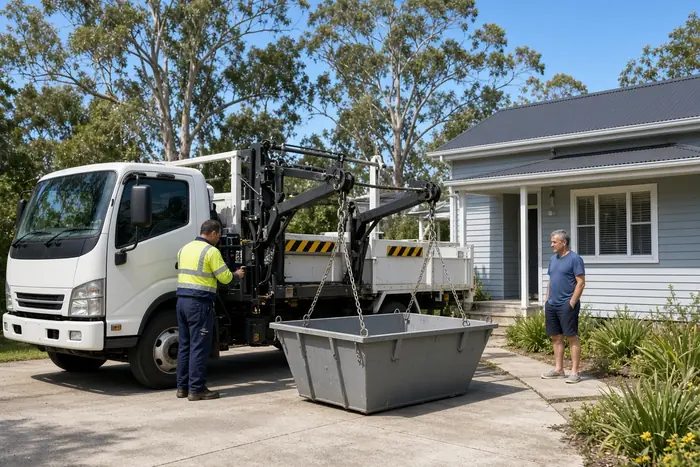
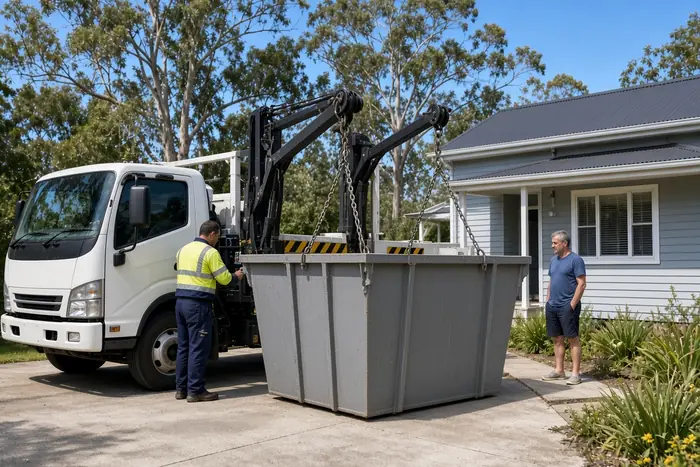
How it works: updated step 1 and 3 photos

diff --git a/index.html b/index.html
@@ -355,7 +355,7 @@
   <div class="wrap">
     <h2 id="how-h">How it works</h2>
     <ol class="steps grid grid-3">
-      <li class="card step-card"><span class="step-img"><img src="img/step1-quote-request.webp" width="700" height="467" loading="lazy" decoding="async" alt="Homeowner requesting a skip bin quote on his phone"></span><div class="step-body"><span class="step-num">1</span><h3>Tell us about the job</h3><p>Choose your suburb, skip size and waste type in the <a href="#quote">quote form</a>, then add your contact details.</p></div></li>
+      <li class="card step-card"><span class="step-img"><img src="img/step1-quote-request.webp" width="700" height="467" loading="lazy" decoding="async" alt="Homeowner requesting a skip bin quote on his phone during a garage clean-out"></span><div class="step-body"><span class="step-num">1</span><h3>Tell us about the job</h3><p>Choose your suburb, skip size and waste type in the <a href="#quote">quote form</a>, then add your contact details.</p></div></li>
       <li class="card step-card"><span class="step-img"><img src="img/step2-operator-phone.webp" width="700" height="467" loading="lazy" decoding="async" alt="Local skip bin operator reading a quote request in his truck"></span><div class="step-body"><span class="step-num">2</span><h3>We pass it to one local operator</h3><p>Your enquiry goes to one skip bin company that services your part of the Shoalhaven, not to a list of firms, so you get a competitive price without being chased by five companies.</p></div></li>
       <li class="card step-card"><span class="step-img"><img src="img/step3-skip-delivery.webp" width="700" height="467" loading="lazy" decoding="async" alt="Skip bin being delivered to a driveway in the Shoalhaven"></span><div class="step-body"><span class="step-num">3</span><h3>They confirm price and delivery</h3><p>You deal with the operator directly and only book if the quote suits you.</p></div></li>
     </ol>
